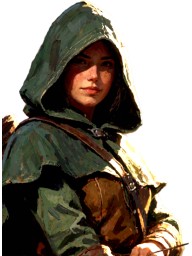
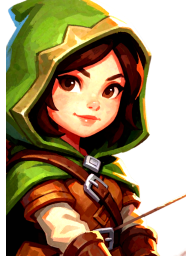
world2 v9.57.3: 데포르메 결 추가, 궁수를 그 결로
make_character_sheet.py 에 --style deform 을 더했다. 머리를 키우고 이목구비를
또렷하게 하는 문구로 실사 문구를 갈아 끼운다. 궁수 세 장을 다시 뽑았다.

diff --git a/game-card-world2/index.html b/game-card-world2/index.html
@@ -1746,7 +1746,7 @@ const pick = arr => arr[Math.floor(Math.random() * arr.length)];
 const esc = s => String(s).replace(/[&<>"]/g, ch => ({ '&':'&amp;', '<':'&lt;', '>':'&gt;', '"':'&quot;' }[ch]));
 
 // ── 크래프팅 탭 (world2 v0.1.0) ───────────────────────
-const VERSION = 'v9.57.2';
+const VERSION = 'v9.57.3';
 const SAVE_KEY = 'card-world2.v1';                              // 레거시(card-world-rpg.v1)와 따로
 // 크래프팅 탭에 올라오는 카드 = 단계가 있는 카드 (v0.3.0: 1단계 12장)
 const craftable = t => !!DEFS[t] && !!DEFS[t].step;

diff --git a/game-card-world2/tools/make_character_sheet.py b/game-card-world2/tools/make_character_sheet.py
@@ -49,6 +49,31 @@ NOT_ANIME = (
     "NOT anime, NOT manga, NOT cel-shaded, no flat colors, no black outlines, no lineart, "
     "no chibi, no big glossy eyes, no text, no watermark"
 )
+# ── 데포르메 결 (2026-10-06) — 실사 말고 **얼굴이 큼직한** 게임 그림 ──────────
+#   사람은 머리를 키워 다섯 머리 키쯤으로, 이목구비를 크고 또렷하게. 크리처도 같은 결로 간다
+STYLE_DEFORM = (
+    "stylized fantasy video-game character art, hand-painted illustration with visible painterly "
+    "brushwork, soft cel-shaded volumes with clean readable shapes, warm vivid colors, "
+    "gentle rim lighting, appealing character-design rendering, sharp focus"
+)
+NOT_REAL = (
+    "no photorealism, not a photo, no hyperreal skin pores, no gritty realism, "
+    "no text, no watermark, no extra characters"
+)
+PROP_DEFORM = {                                                  # 단계마다 '얼굴을 키운다'고 못을 박는다
+    "person": {
+        "full": ("stylized deformed proportions: a large expressive head about one fifth of the "
+                 "body height, compact sturdy body, small hands and feet"),
+        "upper": "a large expressive head, broad clear facial features, simplified stylized anatomy",
+        "face": ("a big round-cheeked face filling the frame, large clear eyes, bold simple features, "
+                 "soft smooth skin shading"),
+    },
+    "creature": {
+        "full": "stylized deformed proportions: an oversized expressive head, compact chunky body, short sturdy legs",
+        "upper": "an oversized expressive head, chunky simplified body",
+        "face": "a big expressive head filling the frame, large clear eyes, bold simple features",
+    },
+}
 # 배경 — 잘라내기 좋게 민짜가 기본. --bg scene 이면 워크플로우 예시처럼 배경을 그린다
 BG_PLAIN = "plain flat neutral grey studio backdrop, no scenery, no props, no other characters"
 
@@ -86,9 +111,18 @@ OUTS = {
 }
 
 
-def prompt_of(kind, stage, desc, bg):
+def prompt_of(kind, stage, desc, bg, style="real"):
     """단계별 프롬프트 = 틀 + 설명 + 그림체 + 배경 + 금지"""
     head = KINDS[kind][stage].format(desc=desc.rstrip(" ,."))
+    if style == "deform":                                        # 실사 문구를 데포르메 문구로 갈아 끼운다
+        head = (head.replace("realistic human proportions and anatomy", PROP_DEFORM["person"]["full"])
+                    .replace("realistic anatomy and skin texture", PROP_DEFORM["person"]["upper"])
+                    .replace("realistic facial anatomy, detailed skin texture", PROP_DEFORM["person"]["face"])
+                    .replace("detailed fur and skin texture", PROP_DEFORM["creature"]["face"]))
+        if kind == "creature":
+            head += ", " + PROP_DEFORM["creature"]["full" if stage == "full" else "upper"]
+        tail = STYLE_DEFORM + ", " + (bg if bg else BG_PLAIN)
+        return f"{head}. {tail}. {NOT_REAL}."
     tail = STYLE + ", " + (bg if bg else BG_PLAIN)
     return f"{head}. {tail}. {NOT_ANIME}."
 
@@ -197,6 +231,8 @@ def main():
     ap.add_argument("--desc", required=True, help="영문 묘사 — 세 단계가 같은 묘사를 쓴다 (머리색·옷·종 따위)")
     ap.add_argument("--label", default="", help="기록용 한글 이름 (예: 궁수)")
     ap.add_argument("--bg", default="", help="배경 묘사. 비우면 잘라내기 좋은 민짜 배경")
+    ap.add_argument("--style", choices=("real", "deform"), default="real",
+                    help="그림 결 — real: 워크플로우 기본 톤(반실사) / deform: 데포르메, 얼굴을 키운 게임 그림")
     ap.add_argument("--seed", type=int, default=None, help="1단 시드 (없으면 랜덤). 구도가 맘에 안 들면 이것만 바꾼다")
     ap.add_argument("--steps", type=int, default=8)
     ap.add_argument("--width", type=int, default=720)
@@ -231,13 +267,13 @@ def main():
     if a.seed is None:
         a.seed = random.randrange(2 ** 31)
 
-    texts = {s: prompt_of(a.kind, s, a.desc, a.bg) for s in ("full", "upper", "face")}
+    texts = {s: prompt_of(a.kind, s, a.desc, a.bg, a.style) for s in ("full", "upper", "face")}
     for s in ("full", "upper", "face"):
         print(f"\n[{s}] {texts[s]}")
     print(f"\nseed {a.seed} · {a.kind} · {a.width}x{a.height}")
     outs = C.run_workflow(a.url, build(a, texts), timeout=1800)
 
-    opts = [f"--kind {a.kind}", f"--card-from {a.card_from}", f"--seg-text {a.seg_text}",
+    opts = [f"--kind {a.kind}", f"--style {a.style}", f"--card-from {a.card_from}", f"--seg-text {a.seg_text}",
             f"--denoise-upper {a.denoise_upper}", f"--denoise-face {a.denoise_face}",
             f"--upper-pad {a.upper_pad}", f"--upper-down {a.upper_down}",
             f"--face-pad {a.face_pad}", f"--face-down {a.face_down}"]

diff --git a/game-card-world2/docs/아이콘_목록.md b/game-card-world2/docs/아이콘_목록.md
@@ -1845,9 +1845,9 @@ a single huge grey granite boulder with sharp cracked facets
 <!-- icon:portrait_archer -->
 ### portrait_archer — 궁수 — full
 - 파일: `images/portrait/portrait_archer.png`
-- 생성: 2026-10-06 · seed `140469717` · 옵션 `--kind person --denoise-upper 0.12 --denoise-face 0.05 --upper-pad 85 --upper-down 170 --face-pad 60 --face-down 10`
+- 생성: 2026-10-06 · seed `1804406346` · 옵션 `--kind person --style deform --card-from face --seg-text face --denoise-upper 0.12 --denoise-face 0.05 --upper-pad 85 --upper-down 170 --face-pad 170 --face-down 10`
 ```
-Full-body character splash art of a young woman archer in a green hooded cloak and brown leather tunic, a quiver of arrows on her back, holding a simple wooden bow, forest ranger look, confident calm expression, standing in a relaxed ready stance, facing the viewer, body turned three-quarters, whole body visible from head to toe, realistic human proportions and anatomy, centered composition. AAA western video-game key art, semi-realistic digital oil painting with visible painterly brushwork and textured impasto, cinematic rim lighting, muted desaturated palette with warm highlights, concept-art rendering, sharp focus, plain flat neutral grey studio backdrop, no scenery, no props, no other characters. NOT anime, NOT manga, NOT cel-shaded, no flat colors, no black outlines, no lineart, no chibi, no big glossy eyes, no text, no watermark.
+Full-body character splash art of a young woman archer in a green hooded cloak and brown leather tunic, a quiver of arrows on her back, holding a simple wooden bow, forest ranger look, confident calm expression, standing in a relaxed ready stance, facing the viewer, body turned three-quarters, whole body visible from head to toe, stylized deformed proportions: a large expressive head about one fifth of the body height, compact sturdy body, small hands and feet, centered composition. stylized fantasy video-game character art, hand-painted illustration with visible painterly brushwork, soft cel-shaded volumes with clean readable shapes, warm vivid colors, gentle rim lighting, appealing character-design rendering, sharp focus, plain flat neutral grey studio backdrop, no scenery, no props, no other characters. no photorealism, not a photo, no hyperreal skin pores, no gritty realism, no text, no watermark, no extra characters.
 ```
 <!-- /icon -->
 
@@ -1863,9 +1863,9 @@ a simple curved wooden longbow with a taut bowstring
 <!-- icon:card_archer -->
 ### card_archer — 궁수 — face
 - 파일: `images/icon/card_archer.png`
-- 생성: 2026-10-06 · seed `140469717` · 옵션 `--kind person --denoise-upper 0.12 --denoise-face 0.05 --upper-pad 85 --upper-down 170 --face-pad 170 --face-down 10`
+- 생성: 2026-10-06 · seed `1804406346` · 옵션 `--kind person --style deform --card-from face --seg-text face --denoise-upper 0.12 --denoise-face 0.05 --upper-pad 85 --upper-down 170 --face-pad 170 --face-down 10`
 ```
-Close-up face portrait of a young woman archer in a green hooded cloak and brown leather tunic, a quiver of arrows on her back, holding a simple wooden bow, forest ranger look, confident calm expression, facing the viewer, realistic facial anatomy, detailed skin texture. AAA western video-game key art, semi-realistic digital oil painting with visible painterly brushwork and textured impasto, cinematic rim lighting, muted desaturated palette with warm highlights, concept-art rendering, sharp focus, plain flat neutral grey studio backdrop, no scenery, no props, no other characters. NOT anime, NOT manga, NOT cel-shaded, no flat colors, no black outlines, no lineart, no chibi, no big glossy eyes, no text, no watermark.
+Close-up face portrait of a young woman archer in a green hooded cloak and brown leather tunic, a quiver of arrows on her back, holding a simple wooden bow, forest ranger look, confident calm expression, facing the viewer, a big round-cheeked face filling the frame, large clear eyes, bold simple features, soft smooth skin shading. stylized fantasy video-game character art, hand-painted illustration with visible painterly brushwork, soft cel-shaded volumes with clean readable shapes, warm vivid colors, gentle rim lighting, appealing character-design rendering, sharp focus, plain flat neutral grey studio backdrop, no scenery, no props, no other characters. no photorealism, not a photo, no hyperreal skin pores, no gritty realism, no text, no watermark, no extra characters.
 ```
 <!-- /icon -->
 
@@ -2601,9 +2601,9 @@ Full-body character splash art of a carpenter with a hand saw in one hand and a 
 <!-- icon:bust_archer -->
 ### bust_archer — 궁수 — upper
 - 파일: `images/portrait/bust_archer.png`
-- 생성: 2026-10-06 · seed `140469717` · 옵션 `--kind person --denoise-upper 0.12 --denoise-face 0.05 --upper-pad 85 --upper-down 170 --face-pad 60 --face-down 10`
+- 생성: 2026-10-06 · seed `1804406346` · 옵션 `--kind person --style deform --card-from face --seg-text face --denoise-upper 0.12 --denoise-face 0.05 --upper-pad 85 --upper-down 170 --face-pad 170 --face-down 10`
 ```
-Upper-body character portrait of a young woman archer in a green hooded cloak and brown leather tunic, a quiver of arrows on her back, holding a simple wooden bow, forest ranger look, confident calm expression, facing the viewer, shoulders squared, torso turned three-quarters, realistic anatomy and skin texture. AAA western video-game key art, semi-realistic digital oil painting with visible painterly brushwork and textured impasto, cinematic rim lighting, muted desaturated palette with warm highlights, concept-art rendering, sharp focus, plain flat neutral grey studio backdrop, no scenery, no props, no other characters. NOT anime, NOT manga, NOT cel-shaded, no flat colors, no black outlines, no lineart, no chibi, no big glossy eyes, no text, no watermark.
+Upper-body character portrait of a young woman archer in a green hooded cloak and brown leather tunic, a quiver of arrows on her back, holding a simple wooden bow, forest ranger look, confident calm expression, facing the viewer, shoulders squared, torso turned three-quarters, a large expressive head, broad clear facial features, simplified stylized anatomy. stylized fantasy video-game character art, hand-painted illustration with visible painterly brushwork, soft cel-shaded volumes with clean readable shapes, warm vivid colors, gentle rim lighting, appealing character-design rendering, sharp focus, plain flat neutral grey studio backdrop, no scenery, no props, no other characters. no photorealism, not a photo, no hyperreal skin pores, no gritty realism, no text, no watermark, no extra characters.
 ```
 <!-- /icon -->
 

diff --git a/game-card-world2/docs/기능.md b/game-card-world2/docs/기능.md
@@ -3928,6 +3928,12 @@
 - [x] v9.55.2: **여관 퀘스트** — 등록하면 기사의 수첩에 한 줄로 올라온다 (🏨 딱지 · 장인 그림 · 지금 걸음 한 줄 · n/3)
   - 소문이면 가야 할 땅, 물건이면 `무른 가죽 0/3 · 억센 가죽 0/2`, 증명이면 넘어야 할 놈을 적는다
   - 걸음이 하나 끝나면 목표 줄처럼 **새 줄로 번쩍이며** 올라온다. 장인을 아직 못 찾았으면 이름 자리는 ???
+- [x] v9.57.3: **데포르메 결 추가** (`--style deform`) — 궁수를 그 결로 다시 뽑음
+  - 실사 문구를 갈아 끼운다: 사람은 **머리가 키의 1/5 쯤 되는 큰 머리 · 다부진 몸**, 이목구비를 크고 또렷하게
+  - 그림체도 바뀜 — 손그림 느낌의 셀 음영 · 따뜻하고 선명한 색. 금지는 `no photorealism` 쪽으로
+  - 크리처용 문구도 같이 넣어 둠 (머리를 키운 통통한 몸) — 아직 크리처엔 안 씀
+  - 궁수 세 장 다시 뽑음. 64px 카드에서 얼굴이 또렷해짐
+  - 나머지 사람 · 크리처는 아직 `real` 결 그대로다
 - [x] v9.57.2: 인스펙터 큰 그림을 **전신 포트레이트**로 되돌림 (사람 · 크리처 · 여관 사람 모두 같은 꼴)
   - 카드는 그대로 얼굴(`card_<id>.png`), 줄도 그대로 전신. 인스펙터만 상반신 → 전신
   - 안 쓰는 `hBust()` · `foeBust()` 는 걷어냄. `bust_<id>.png` 34장은 남겨 둔다 (쓸 자리가 생기면 그때)
